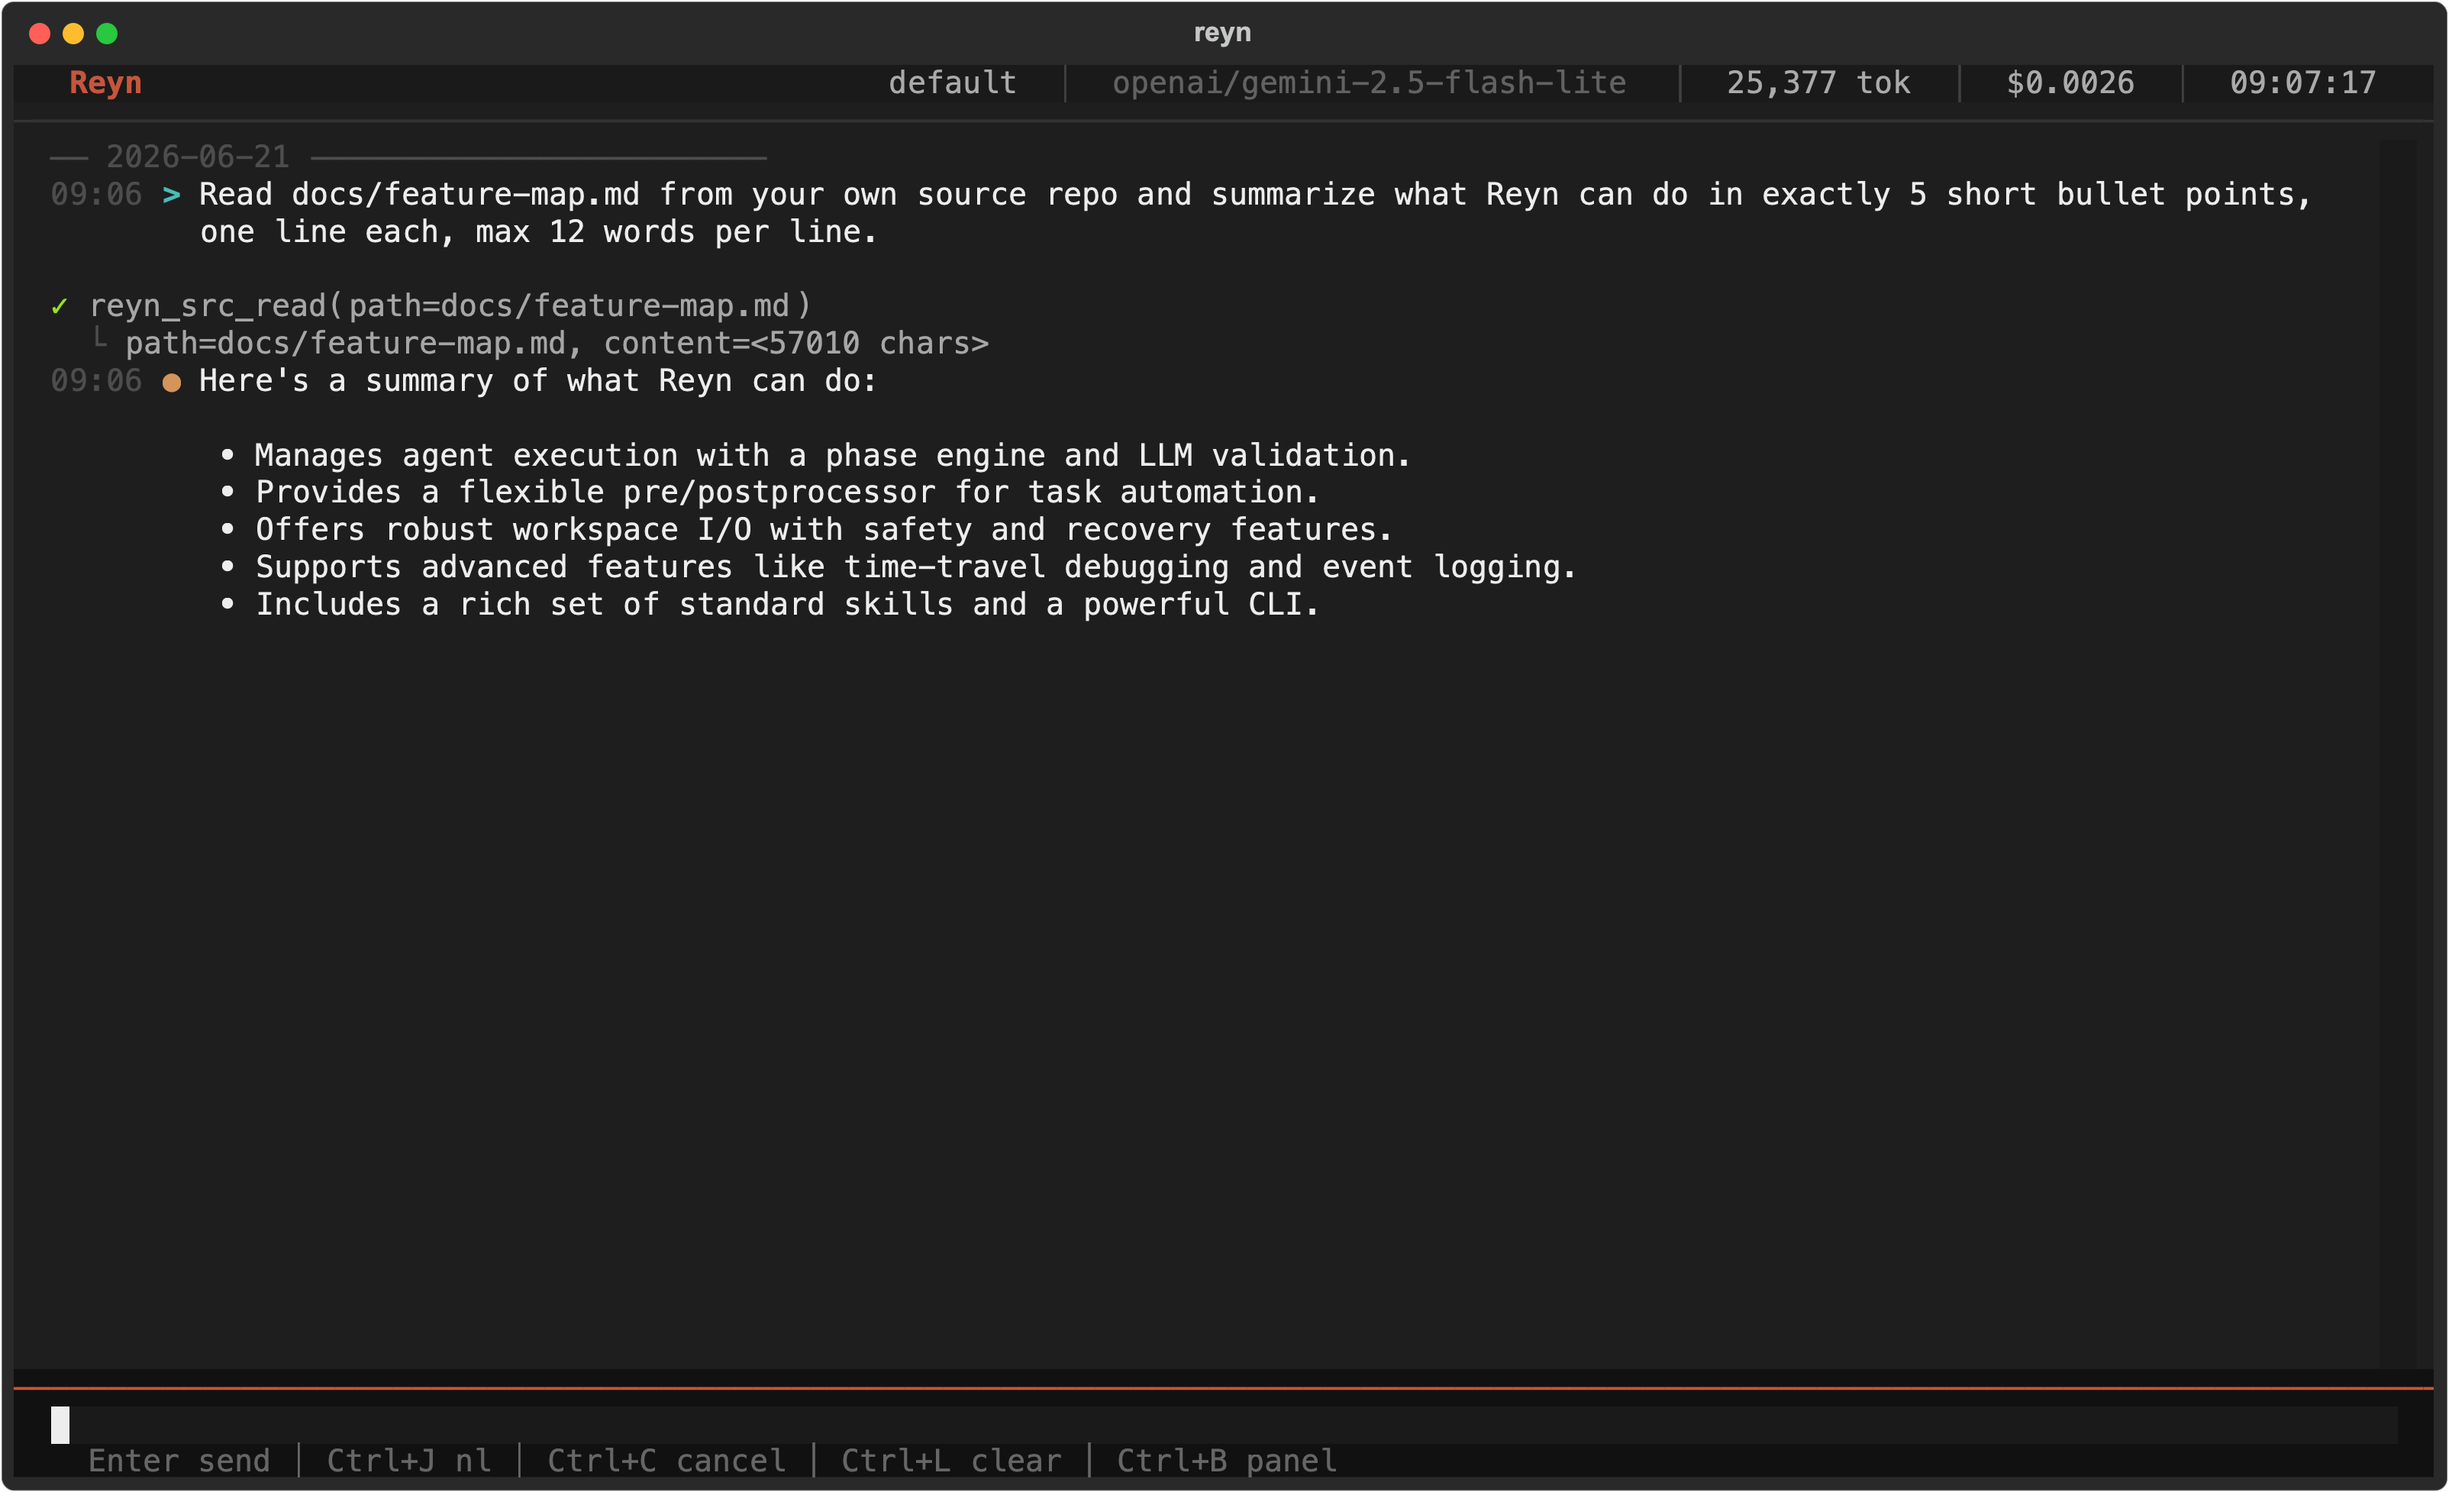
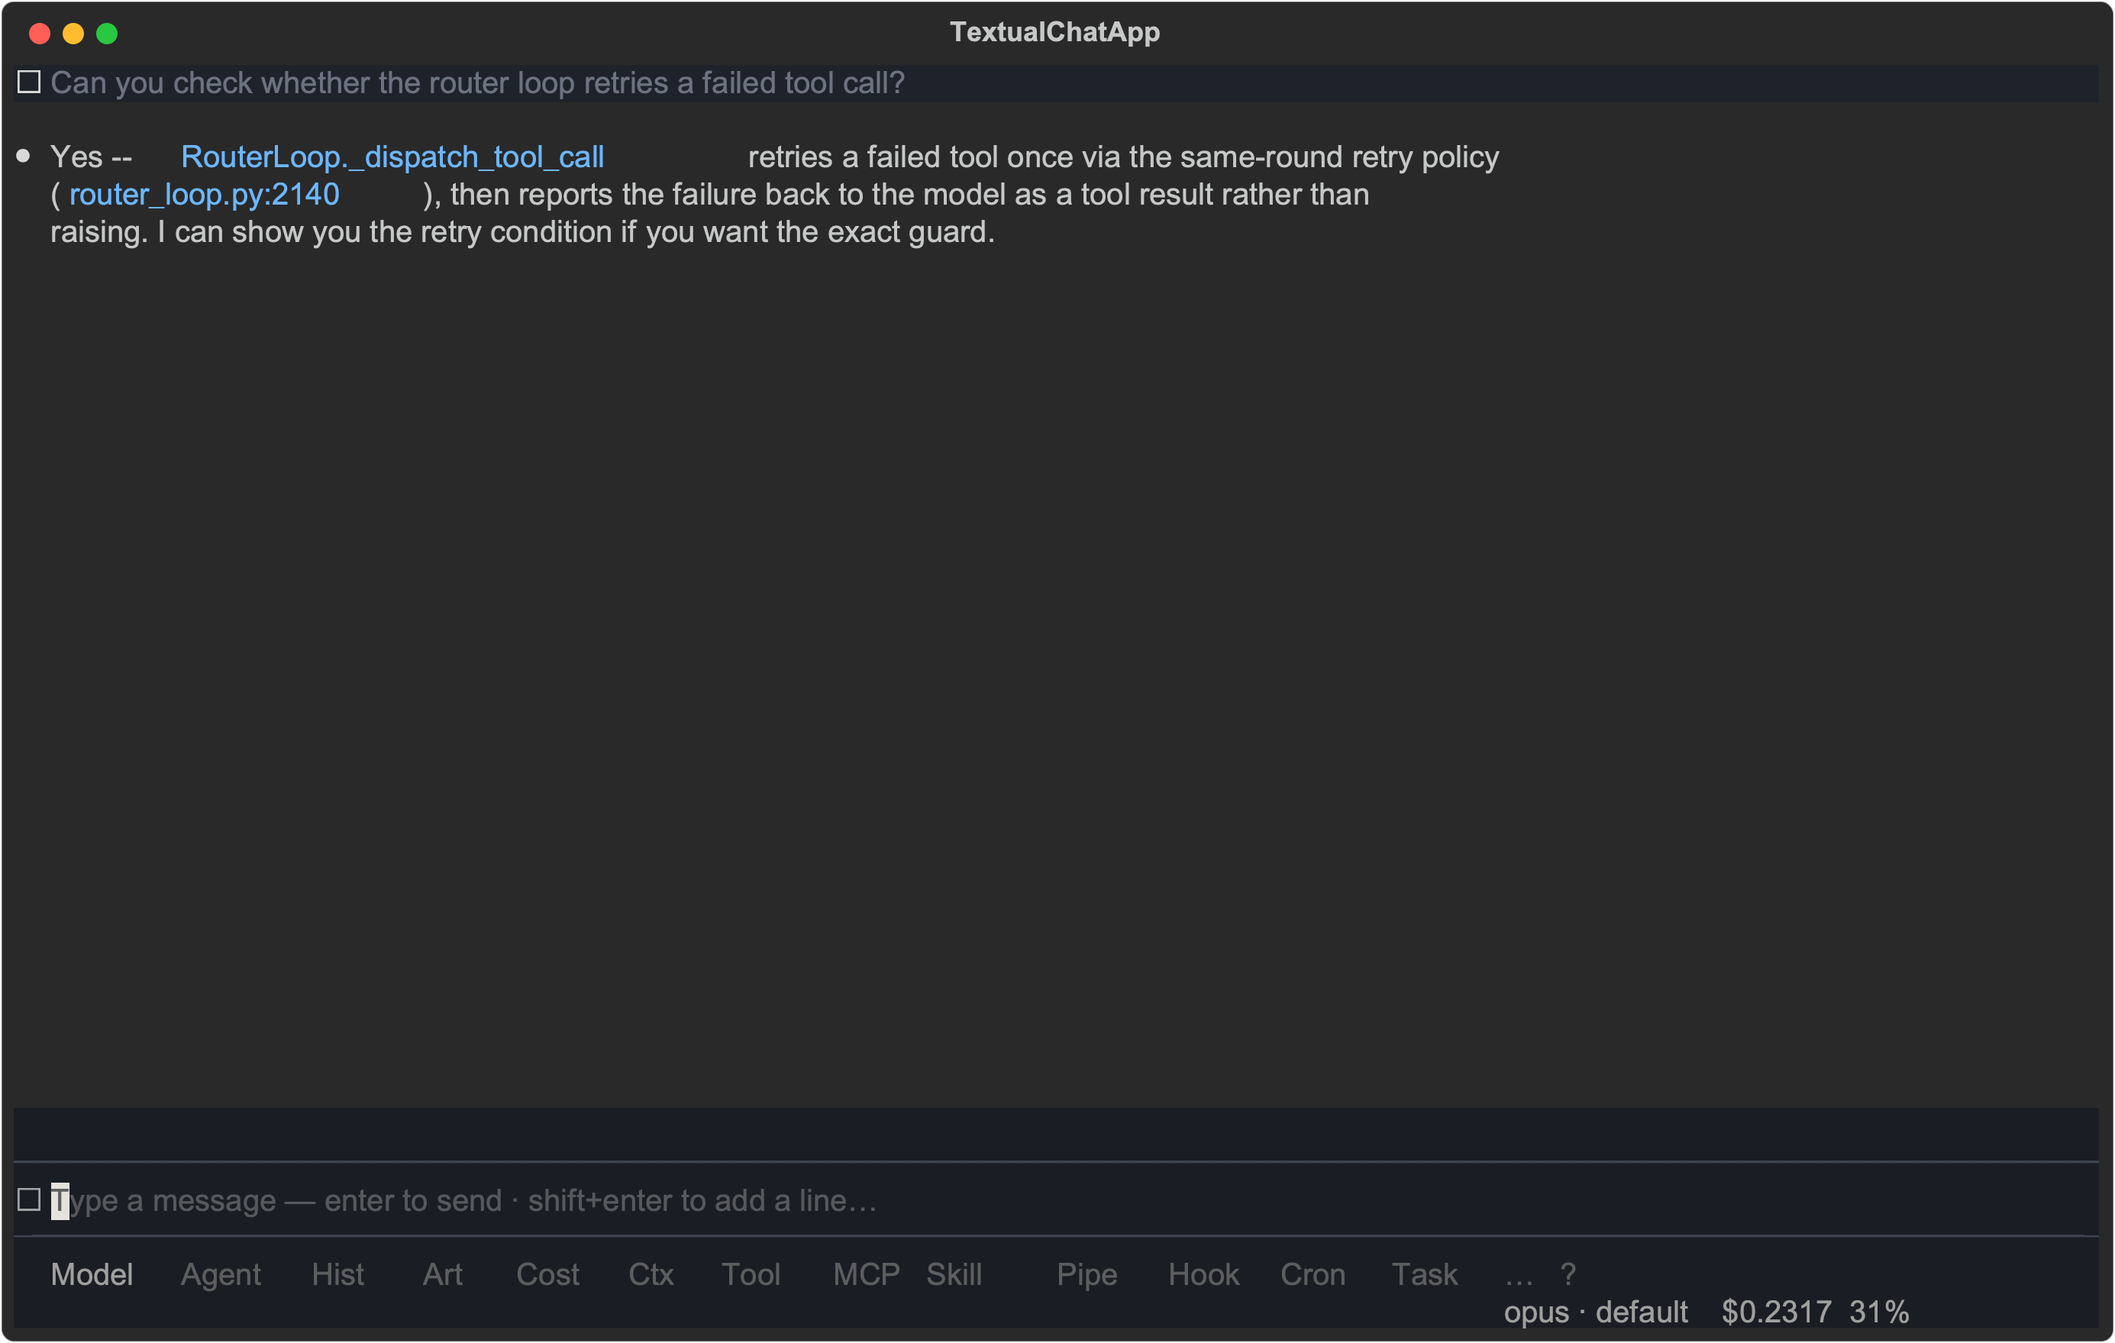
docs(#6223): re-shoot the 3 README screenshots from a REAL current render
The 2026-06-21 screenshots (22be71128, 3 months old) predate the entire
#6184 arc's TUI rebuild (tool-row subject prefixing, Group folding,
the Space detail view, the bottom MenuBar tab strip) and literally
depicted 2 retired mechanisms this arc's own text fixes (#6225)
already corrected in prose: the tool-call line reads
`reyn_src_read(path=docs/feature-map.md)` (renamed to reyn_repo_read
weeks ago) and the footer hint reads "Ctrl+B panel" (retired, #2193
rescope) -- the old images were not just stale, they showed a UI that
no longer exists at all.

Generated from a REAL TextualChatApp render, not a mock or a hand-
edited image: constructed a real app instance (ScriptedTransport +
ChatReadModel seam impl, the exact real-instance recipe this repo's
own test suite already proves -- test_textual_chat_phase4_3273.py's
F5b cost/ctx wiring, test_4788_rewind_picker_escape_dismiss.py's
__rewind_list__ + branch-tree shape), drove it through run_test(),
called App.export_screenshot() for the real rendered SVG, and
rasterized via cairosvg (no extra system deps, per tui-coder's own
#6223 investigation). The one manual step was picking a render-time
font for the PNG conversion that actually covers the glyphs the real
app emits (cairosvg does not do per-glyph fallback across a font
list) -- this changes nothing about what was rendered, only which
face turns already-correct vector text into pixels.

- tui-chat.png: a real question + the agent's real streamed-shaped
[…]

diff --git a/README.md b/README.md
@@ -58,7 +58,7 @@ The trade-off is explicit: **predictability and auditability over maximum autono
 
 | Cost &amp; token transparency (bottom menu bar → `Cost` tab) | Time-travel (`/rewind`) |
 |---|---|
-| <img src="docs/assets/screenshots/tui-right-panel.png" alt="Cost panel: today / all-time tokens and dollar cost, broken down by agent and model" width="400"> | <img src="docs/assets/screenshots/tui-rewind.png" alt="Rewind picker: checkpoint timeline with a branch tree to jump back and fork" width="400"> |
+| <img src="docs/assets/screenshots/tui-right-panel.png" alt="Cost panel: session / agent / project cost broken into input, output and cache savings, plus cumulative token counts and cache hit rate" width="400"> | <img src="docs/assets/screenshots/tui-rewind.png" alt="Rewind picker: checkpoint timeline with a branch tree to jump back and fork" width="400"> |
 
 </div>
 
